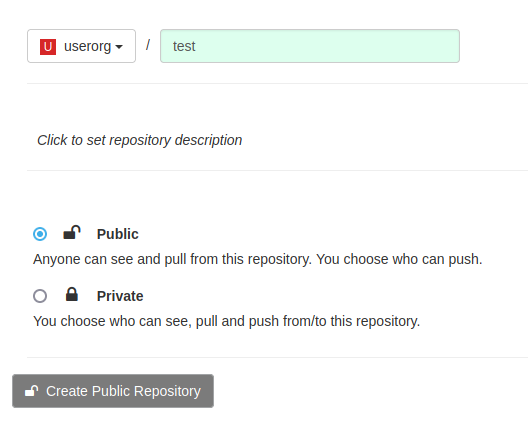
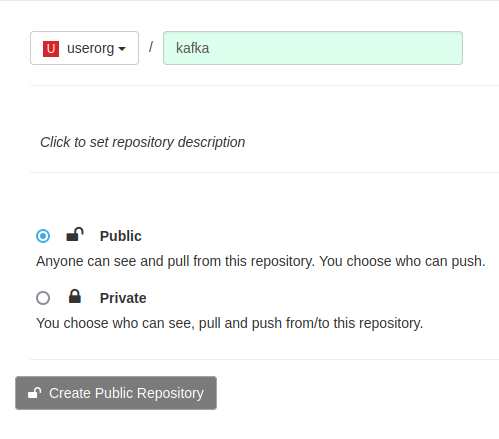
Add push images and layers

diff --git a/quay-repository/README.md b/quay-repository/README.md
@@ -1,13 +1,54 @@
 # Quay Repositories
 
-## Creating a image repository
+## Creating an image repository
 
 1. Click `Create New Repostory`.
 
 ![Quay Create Repository](img/create-repo.png)
 
-2. Select the organization in the drop down list, name the repository `test` and set `Public` visibility.
+2. Select the organization in the drop down list, name the repository `kafka` and set `Public` visibility.
 
 ![Quay Create Repository Config](img/repo-config.png)
 
 3. Click `Create Public Repository`.
+
+## Push an image into the repository
+
+1. Pull an image from the public registry.
+
+```sh
+podman pull quay.io/strimzi/kafka:latest-kafka-3.1.0
+```
+
+2. Tag the image.
+
+```sh
+podman tag quay.io/strimzi/kafka:latest-kafka-3.1.0 [quayregistry-cr-name]-quay-[ocp-namespace].[ocp-domain-name]/userorg/kafka:3.1.0
+```
+
+3. Sign into our Quay.
+
+```sh
+podman login [quayregistry-cr-name]-quay-[ocp-namespace].[ocp-domain-name]
+```
+
+3. Push the image to Quay repository.
+
+```sh
+podman push [quayregistry-cr-name]-quay-[ocp-namespace].[ocp-domain-name]/userorg/kafka:3.1.0
+```
+
+4. Check that the image has been pushed into our Quay repository.
+
+![Image pushed into our Quay](img/image-pushed.png)
+
+## Inspecting image layers
+
+1. Navigate to the `userorg/kafka` repository.
+
+2. Click the `Tags`icon.
+
+3. We should have the 3.1.0 tag. Under `MANIFEST`, click on the `SHA256` value `20cffe996455`. We will see the layers dashboard.
+
+![Image Layers](img/img-layers.png)
+
